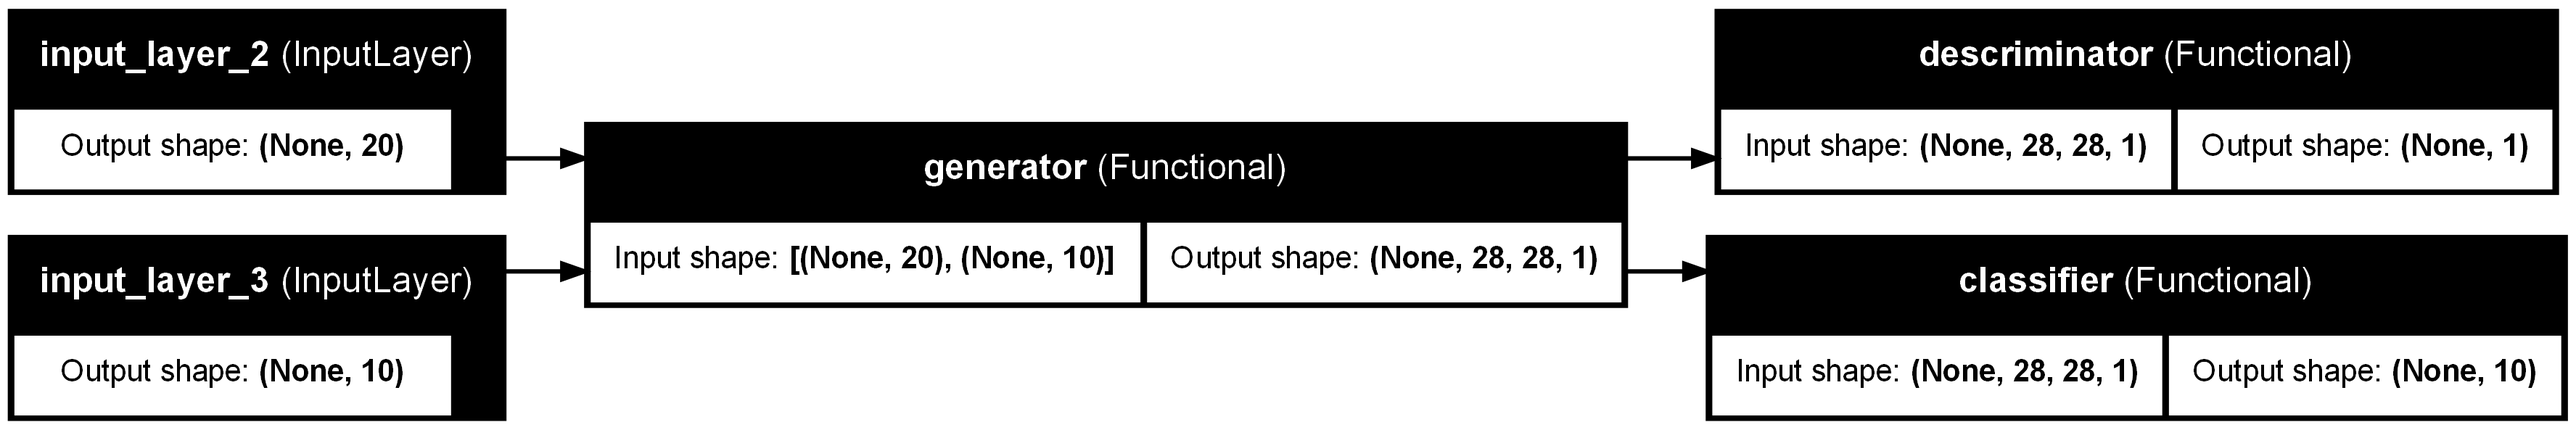
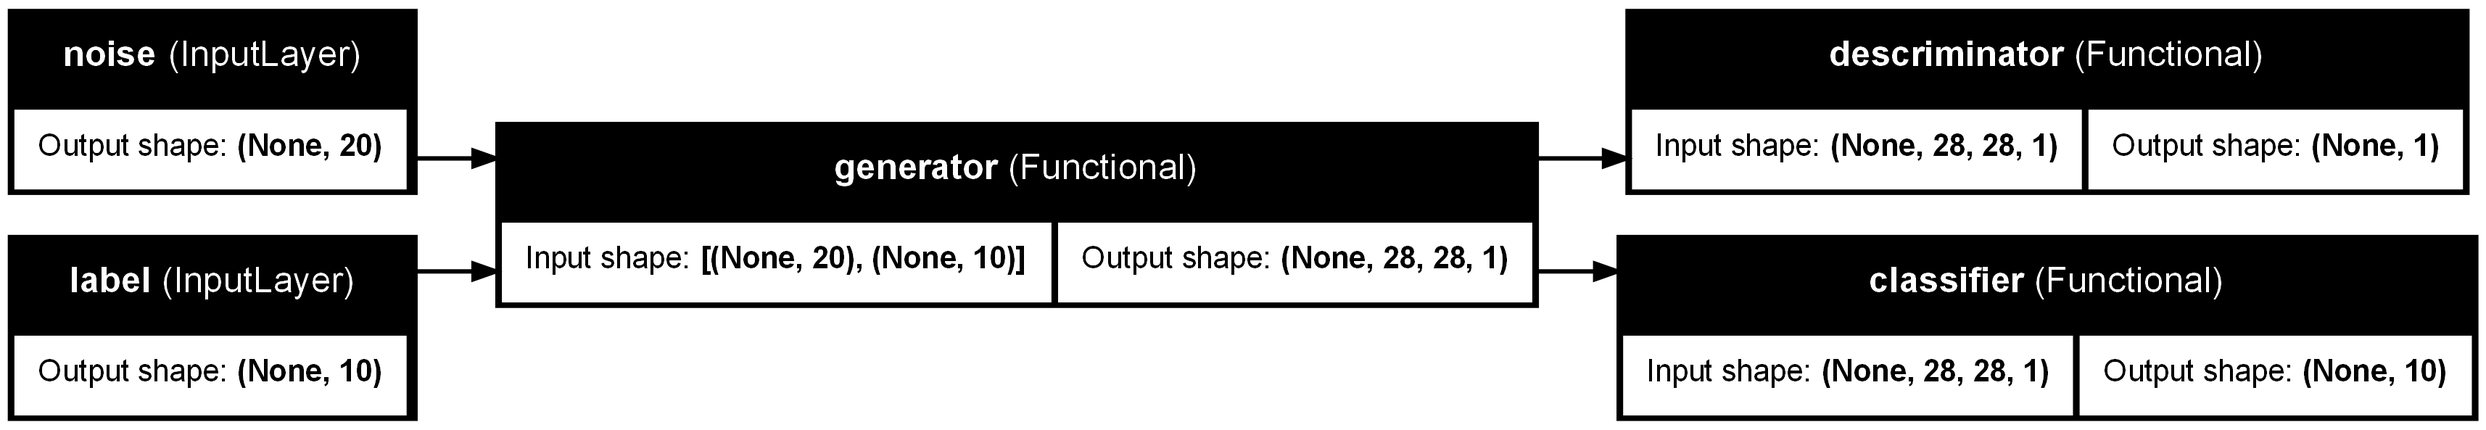
updated the G_CD image with proper input labels.

diff --git a/main01.py b/main01.py
@@ -162,8 +162,8 @@ def build_generator(noise_dim=100, num_classes=10):
     return models.Model([noise_input, class_input], img_output, name='generator')
 
 def build_generator_trainer(noise_dim=100, num_classes=10):
-    noise_input = layers.Input(shape=(noise_dim,))
-    class_input = layers.Input(shape=(num_classes,), dtype='int32')
+    noise_input = layers.Input(shape=(noise_dim,), name='noise')
+    class_input = layers.Input(shape=(num_classes,), dtype='int32', name='label')
     
     fake_img = G([noise_input, class_input])
     
@@ -347,21 +347,21 @@ plot_20_digits(epoch_imgs)
 
 # %% Plot diagram
 
-# from tensorflow.keras.utils import plot_model
+from tensorflow.keras.utils import plot_model
 
-# # Full stacked model with submodels expanded
-# plot_model(
-#     G_CD,
-#     to_file="G_CD.png",
-#     show_shapes=True,
-#     show_layer_names=True,
-#     expand_nested=True,   # <- shows G, D, C internals
-#     rankdir="LR",         # left-to-right; use "TB" for top-to-bottom
-#     dpi=220
-# )
+# Full stacked model with submodels expanded
+plot_model(
+    G_CD,
+    to_file="G_CD.png",
+    show_shapes=True,
+    show_layer_names=True,
+    expand_nested=False,   # <- shows G, D, C internals
+    rankdir="LR",         # left-to-right; use "TB" for top-to-bottom
+    dpi=220
+)
 
-# # # Optional: also export components
-# # plot_model(G,  to_file="G.png",  show_shapes=True, rankdir="LR", dpi=200)
-# # plot_model(D,  to_file="D.png",  show_shapes=True, rankdir="LR", dpi=200)
-# # plot_model(C,  to_file="C.png",  show_shapes=True, rankdir="LR", dpi=200)
+# # Optional: also export components
+# plot_model(G,  to_file="G.png",  show_shapes=True, rankdir="LR", dpi=200)
+# plot_model(D,  to_file="D.png",  show_shapes=True, rankdir="LR", dpi=200)
+# plot_model(C,  to_file="C.png",  show_shapes=True, rankdir="LR", dpi=200)
 
